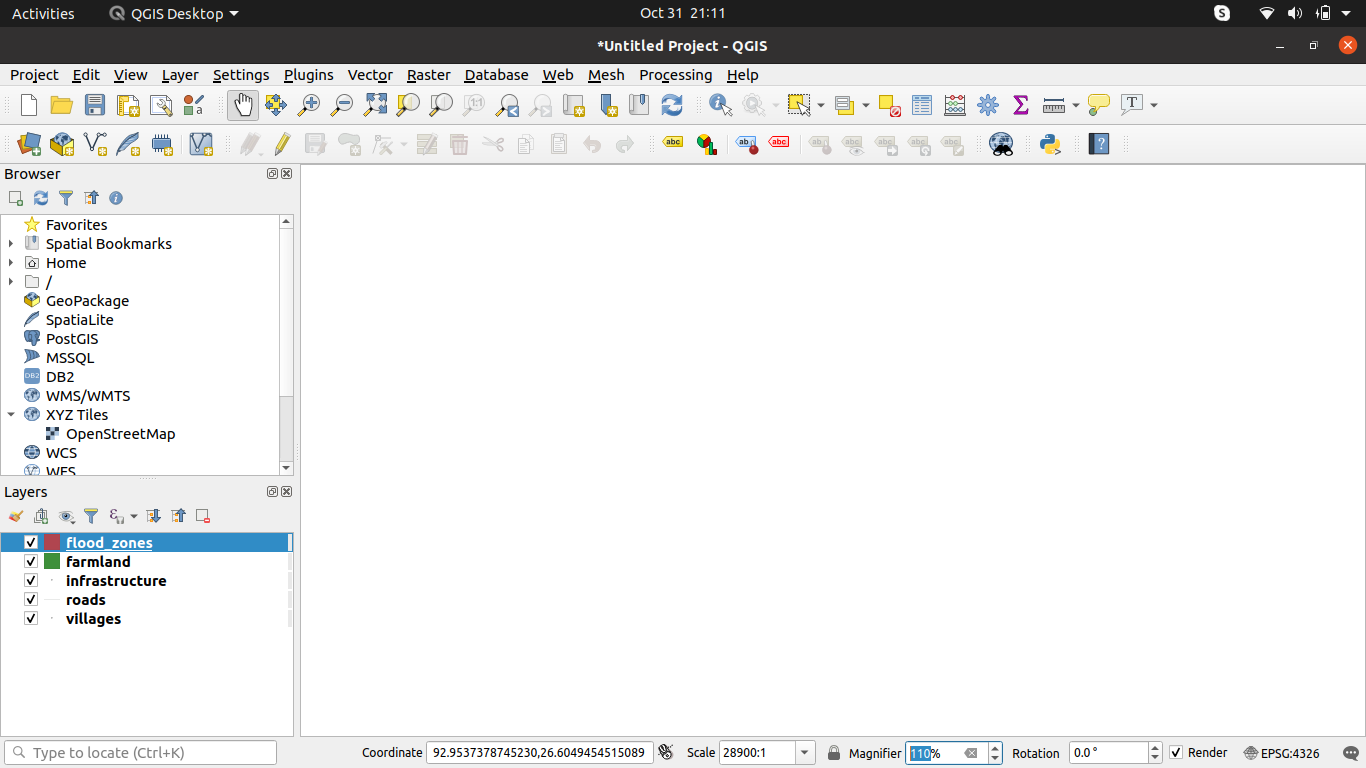
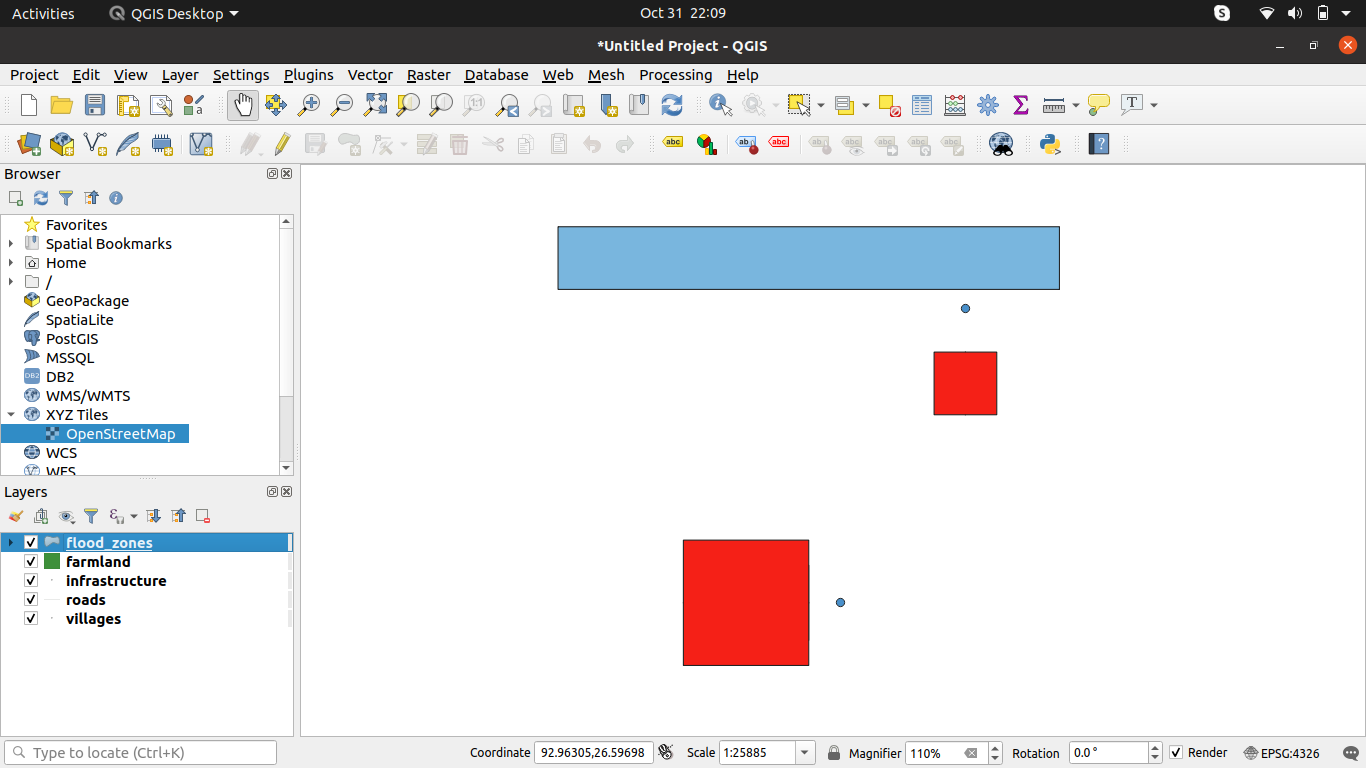
Document OSM coverage cross-check and update impact screenshots

diff --git a/ai/src/scan_osm_coverage.py b/ai/src/scan_osm_coverage.py
@@ -1,0 +1,150 @@
+import json
+import time
+import urllib.parse
+import urllib.request
+import urllib.error
+import pandas as pd
+
+INPUT = "ai/results/predictions/test/summary.csv"
+OUTPUT = "ai/results/osm_coverage.csv"
+OVERPASS_URL = "https://overpass-api.de/api/interpreter"
+
+df = pd.read_csv(INPUT)
+
+results = []
+
+def get_count(element):
+    tags = element.get("tags", {})
+    return sum(int(tags.get(k, 0)) for k in
+               ("nodes", "ways", "relations"))
+
+for index, row in df.iterrows():
+    chip = row["chip"]
+    lat = float(row["lat"])
+    lon = float(row["lon"])
+    # Approximate chip coverage: fixed +/- 0.023 degrees around its centre.
+    # This is not an exact geographic representation of the chip boundary.
+    south = lat - 0.023
+    west = lon - 0.023
+    north = lat + 0.023
+    east = lon + 0.023
+
+    bbox = f"({south},{west},{north},{east})"
+
+    query = f"""
+    [out:json][timeout:60];
+    nwr["place"~"^(village|hamlet)$"]{bbox}->.villages;
+    .villages out count;
+
+    way["highway"]{bbox}->.roads;
+    .roads out count;
+
+    nwr["landuse"~"^(farmland|meadow|orchard|farmyard)$"]{bbox}->.farmland;
+    .farmland out count;
+
+    nwr["amenity"~"^(hospital|clinic|school|college|police|fire_station|shelter)$"]{bbox}->.facilities;
+    .facilities out count;
+    """
+
+    print(f"\n[{index + 1}/{len(df)}] Scanning {chip}...")
+
+    counts = [0, 0, 0, 0]
+    status = "OK"
+    error_message = ""
+
+    for attempt in range(3):
+        try:
+            data = urllib.parse.urlencode({"data": query}).encode()
+            request = urllib.request.Request(
+                OVERPASS_URL,
+                data=data,
+                headers={"User-Agent": "GeoFloodAI/1.0"}
+            )
+
+            with urllib.request.urlopen(request, timeout=90) as response:
+                payload = json.loads(response.read().decode())
+
+            elements = [
+                e for e in payload.get("elements", [])
+                if e.get("type") == "count"
+            ]
+
+            if len(elements) != 4:
+                raise ValueError("Expected 4 count results from Overpass")
+
+            counts = [get_count(e) for e in elements]
+            break
+
+        except Exception as exc:
+            error_message = str(exc)
+            print(f"  Attempt {attempt + 1} failed: {error_message}")
+
+            if attempt < 2:
+                time.sleep(10 * (attempt + 1))
+            else:
+                status = "ERROR"
+
+    villages, roads, farmland, facilities = counts
+
+    coverage_categories = sum(
+        count > 0 for count in counts
+    )
+
+    results.append({
+        "chip": chip,
+        "lat": lat,
+        "lon": lon,
+        "south": south,
+        "west": west,
+        "north": north,
+        "east": east,
+        "water_pct": row["water_pct"],
+        "villages": villages,
+        "roads": roads,
+        "farmland": farmland,
+        "facilities": facilities,
+        "coverage_categories": coverage_categories,
+        "status": status,
+        "error": error_message
+    })
+
+    print(
+        f"  Villages: {villages} | Roads: {roads} | "
+        f"Farmland: {farmland} | Facilities: {facilities}"
+    )
+
+    if index < len(df) - 1:
+        time.sleep(3)
+
+result_df = pd.DataFrame(results)
+
+result_df = result_df.sort_values(
+    by=[
+        "coverage_categories",
+        "villages",
+        "facilities",
+        "farmland",
+        "roads"
+    ],
+    ascending=False
+)
+
+result_df.insert(
+    0, "rank", range(1, len(result_df) + 1)
+)
+
+result_df.to_csv(OUTPUT, index=False)
+
+print("\n" + "=" * 75)
+print("OSM COVERAGE RANKING")
+print("=" * 75)
+
+print(result_df[
+    [
+        "rank", "chip", "villages", "roads",
+        "farmland", "facilities", "coverage_categories", "status"
+    ]
+].to_string(index=False))
+
+print(f"\nResults saved to: {OUTPUT}")
+print("\nOnly rows with status OK should be used for ranking.")

diff --git a/README.md b/README.md
@@ -28,3 +28,8 @@ source venv/bin/activate
 python -m pip install -r requirements.txt
 python verify_setup.py
 ```
+
+## OpenStreetMap coverage (Phase 21)
+- `gis/osm_coverage.py` is the main scanner: all 68 India chips, results in `ai/results/osm_coverage_india.csv`.
+- `ai/src/scan_osm_coverage.py` is an independent cross-check on the 14 test chips (`ai/results/osm_coverage.csv`).
+13 of 14 chips give identical counts; `India_570384` has 115 roads there vs 117 in the main scan (cause not established).
